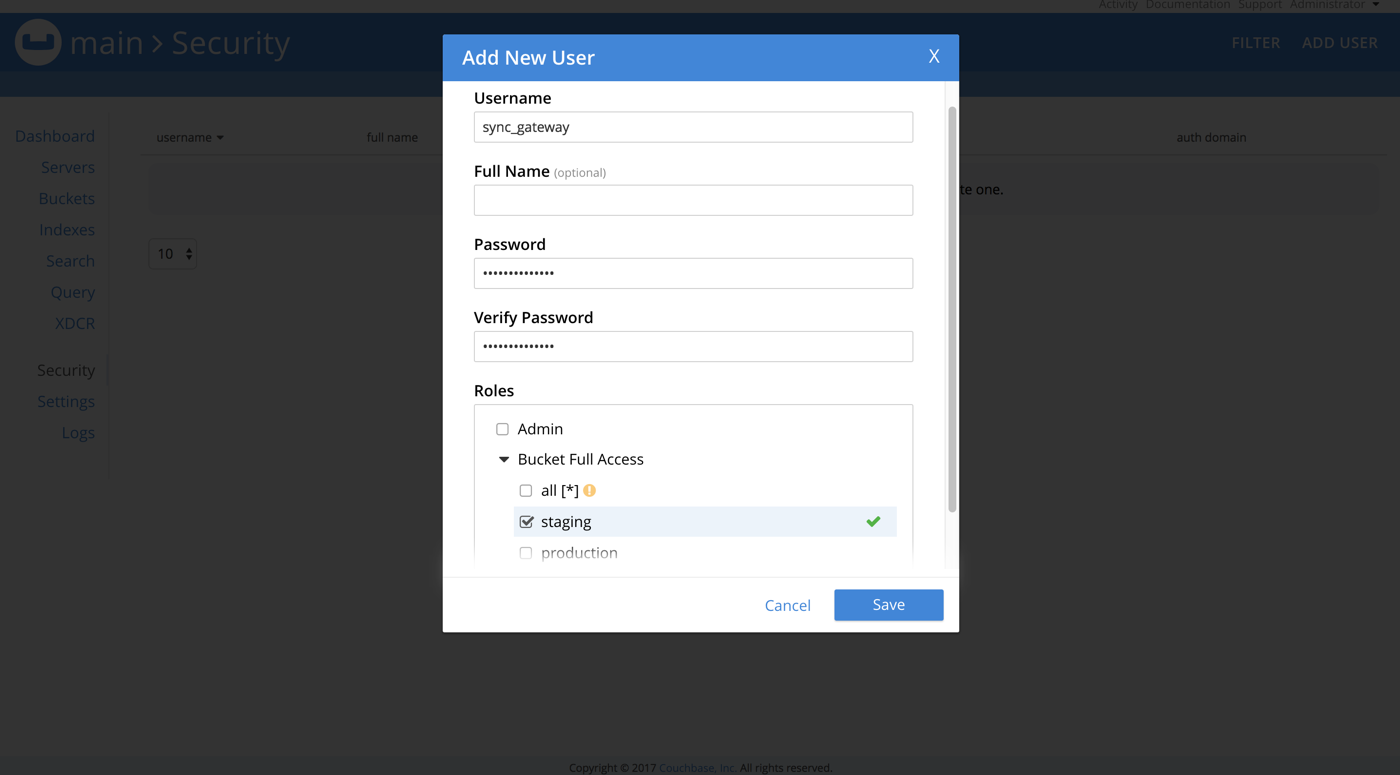
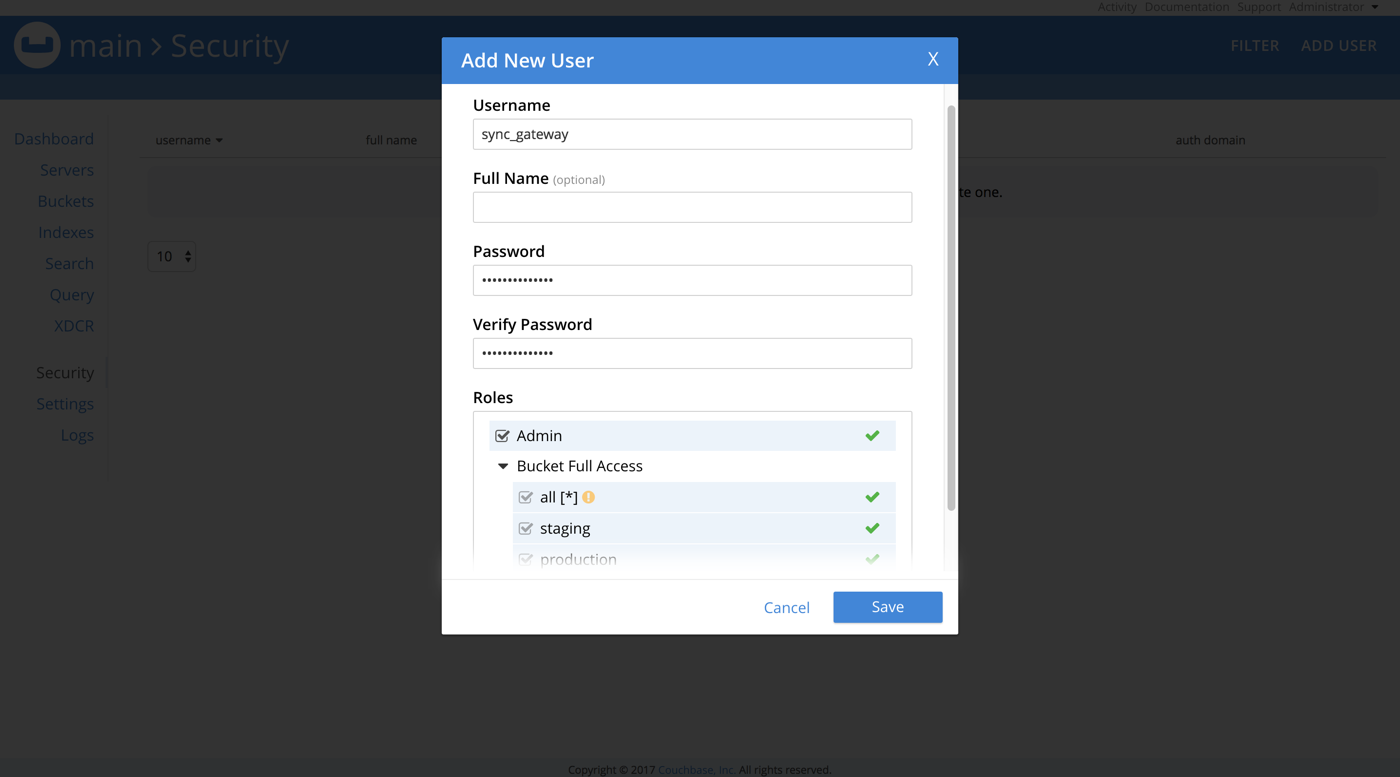
content review

diff --git a/md-docs/_20/installation/sync-gateway.md b/md-docs/_20/installation/sync-gateway.md
@@ -175,7 +175,7 @@ administrator credentials.
 - Provide a bucket name, for example **staging**, and leave the other options to their defaults.
 - Next, we must create an RBAC user with specific privileges for Sync Gateway to connect to Couchbase Server. Open the **Security** tab and click the **Add User** button.
 		<img src="../img/create-user.png" class=center-image />
-- In the pop-up window, provide a **Username**, **Password** and enable the **Bucket Full Access** role for the bucket of your choice.
+- In the pop-up window, provide a **Username**, **Password** and enable the **Admin** role.
 		<img src="../img/user-settings.png" class=center-image />
 - If you're installing Couchbase Server on the cloud, make sure that network permissions (or firewall settings) allow incoming connections to Couchbase Server ports. In a typical mobile deployment on premise or in the cloud (AWS, RedHat etc), the following ports must be opened on the host for Couchbase Server to operate correctly: 8091, 8092, 8093, 8094, 11207, 11210, 11211, 18091, 18092, 18093. You must verify that any firewall configuration allows communication on the specified ports. If this is not done, the Couchbase Server node can experience difficulty joining a cluster. You can refer to the [Couchbase Server Network Configuration](/documentation/server/current/install/install-ports.html) guide to see the full list of available ports and their associated services.
 
@@ -195,7 +195,7 @@ The following steps explain how to connect Sync Gateway to the Couchbase Server 
 				"username": "sync_gateway",
 				"password": "secretpassword",
 				"enable_shared_bucket_access": true,
-				"import_docs": "continuous"
+				"import_docs": "continuous",
 				"users": { "GUEST": { "disabled": false, "admin_channels": ["*"] } },
 				"sync": `function (doc, oldDoc) {
 					if (doc.sdk) {
